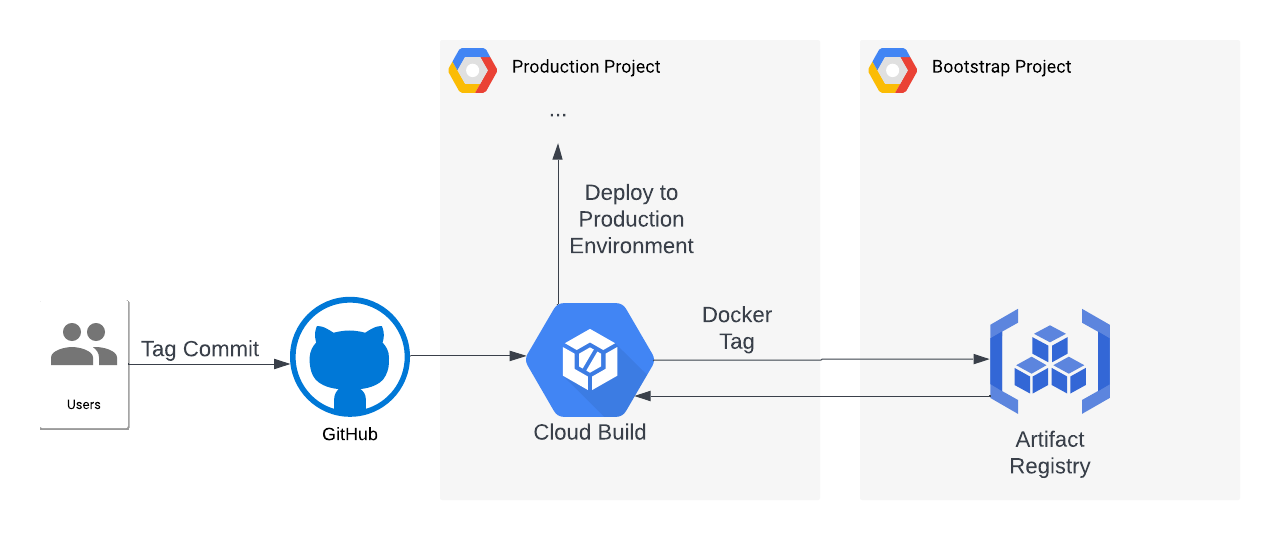
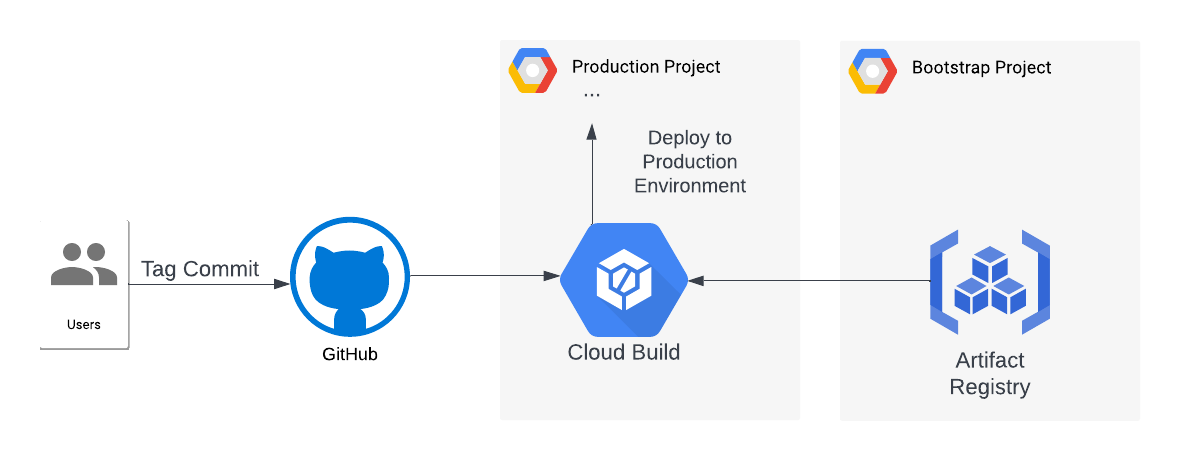
Split Tag and Deployment pipelines (#46)

diff --git a/README.md b/README.md
@@ -71,8 +71,12 @@ This process creates the projects, creates the [Artifact Registry](https://cloud
 
 ![Build Pipeline](./google-cloud-build-pipeline.png)
 
-### Deployment
+### Tag and Deployment
 
 1. [Create a Release](https://docs.github.com/en/repositories/releasing-projects-on-github/managing-releases-in-a-repository#creating-a-release) on Github and tag the commit with a value matching the regex you used as the value of the `github_repo_commit_tag` variable.
+1. This will run the Tag pipeline to tag the artifacts.
+1. It will also trigger a Deployment to Production.
+
+![Tag Pipeline](./google-cloud-tag-pipeline.png)
 
 ![Deployment Pipeline](./google-cloud-deployment-pipeline.png)
